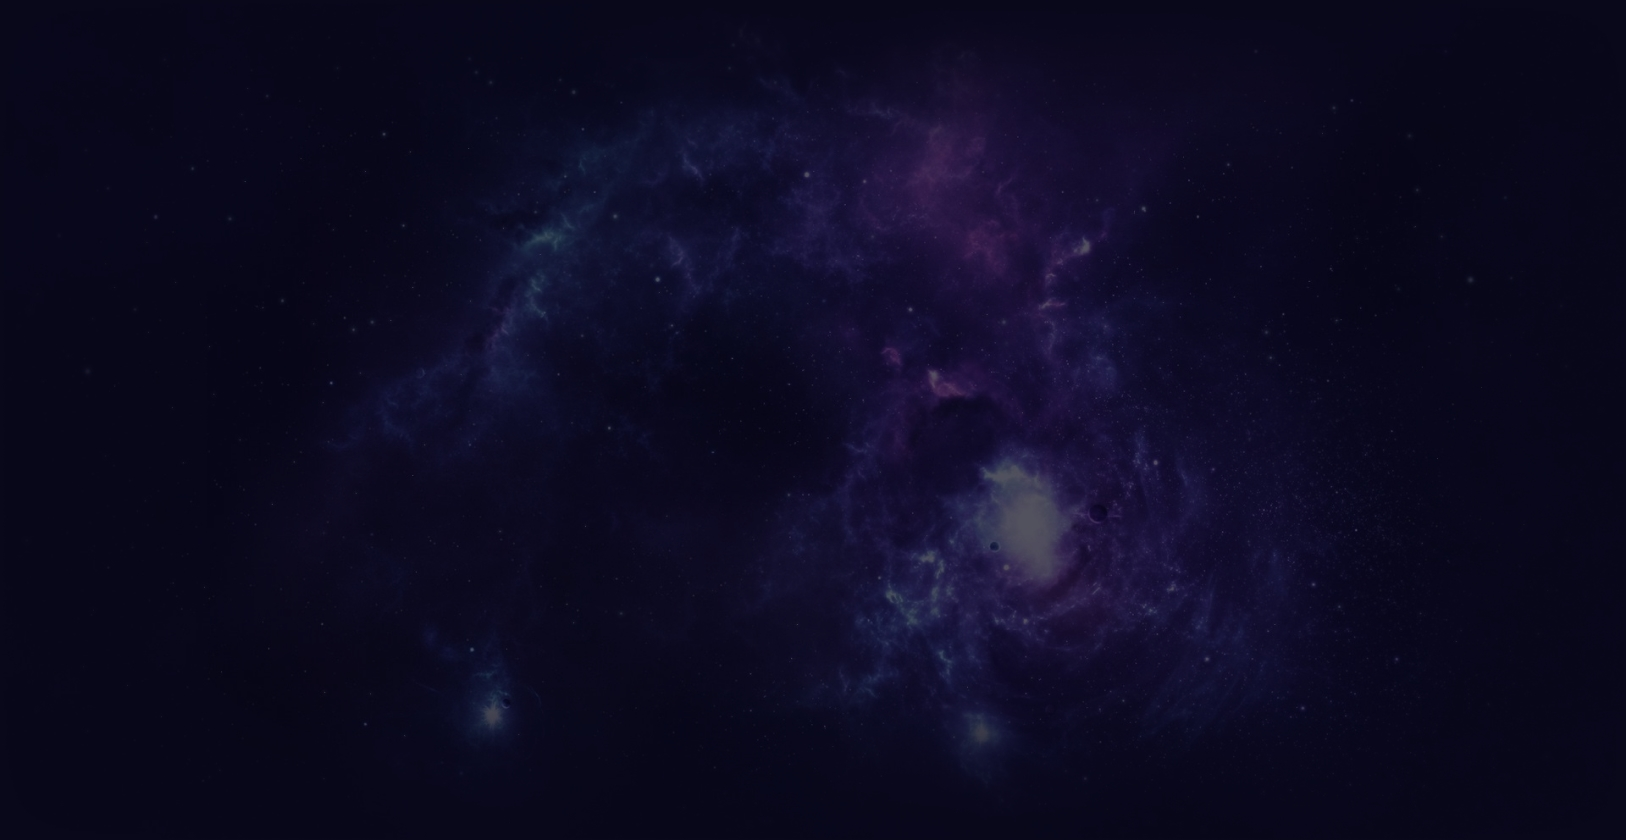
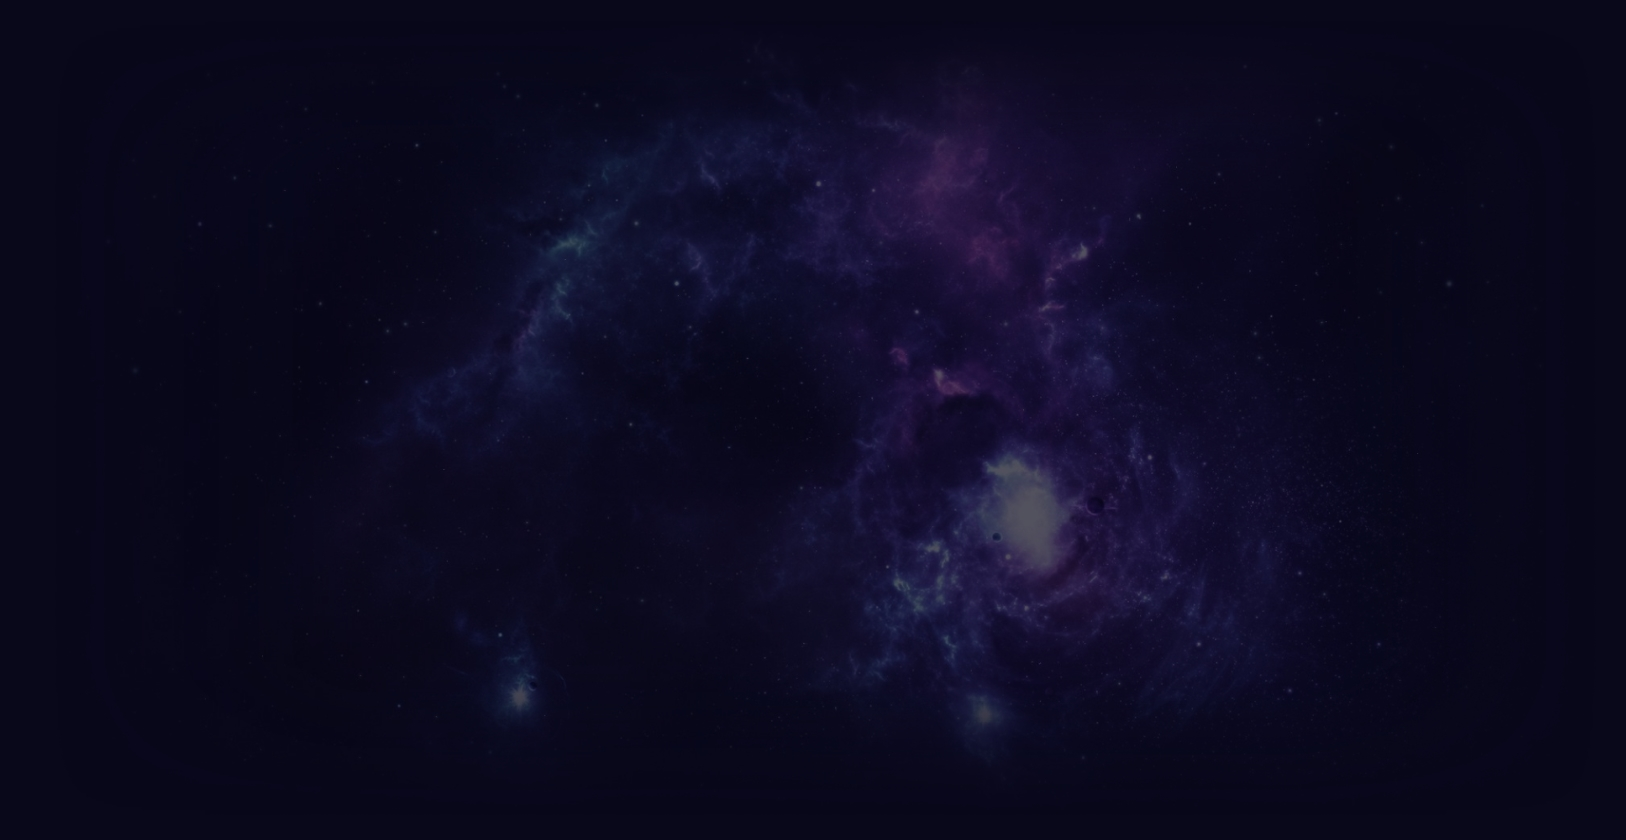
change fons

diff --git a/src/htmlParts/cards/card-third.html b/src/htmlParts/cards/card-third.html
@@ -1,6 +1,6 @@
 <div class="card card_third lazyload">
   <div class="card__front">
-    <img data-src="./images/card-third-bg.png" alt="" class="card__bg lazyload">
+    <img data-src="./images/card-third-bg.jpg" alt="" class="card__bg lazyload">
     <div class="img-container">
       <div class="img-container__circle img-container__circle_third">
         <svg width="30" height="37" viewBox="0 0 30 37" fill="none" xmlns="http://www.w3.org/2000/svg">
@@ -16,7 +16,7 @@
 
   </div>
   <div class="card__back">
-    <img data-src="./images/card-third-bg.png" alt="" class="card__bg lazyload">
+    <img data-src="./images/card-third-bg.jpg" alt="" class="card__bg lazyload">
     <p class="card__text">
       Функция Ambient Aware позволяет мгновенно переходить от абсолютного погружения в музыку к концентрации на окружающем мире. При включении этой функции сигналы автомобилей и другие громкие звуки на улице будут выделяться и быстро передаваться через динамик.
       Для активации достаточно просто провести по наушнику.

diff --git a/src/htmlParts/cards/card-fourth.html b/src/htmlParts/cards/card-fourth.html
@@ -1,6 +1,6 @@
 <div class="card card_fourth lazyload">
   <div class="card__front">
-    <img data-src="./images/card-fourth-bg.png" alt="" class="card__bg lazyload">
+    <img data-src="./images/card-fourth-bg.jpg" alt="" class="card__bg lazyload">
     <div class="img-container">
       <div class="img-container__circle img-container__circle_fourth">
         <svg width="16" height="32" viewBox="0 0 16 32" fill="none" xmlns="http://www.w3.org/2000/svg">
@@ -13,7 +13,7 @@
 
   </div>
   <div class="card__back">
-    <img data-src="./images/card-fourth-bg.png" alt="" class="card__bg lazyload">
+    <img data-src="./images/card-fourth-bg.jpg" alt="" class="card__bg lazyload">
     <p class="card__text">
       Легендарный звук наушников JBL можно держать под контролем и настроить лично под себя в специальном приложении My JBL Headphones. Динамические драйверы 5,6 мм раскачают любые композиции мощными басами и деталями.
     </p>

diff --git a/src/htmlParts/cards/card-main.html b/src/htmlParts/cards/card-main.html
@@ -1,6 +1,6 @@
 <div class="card card_main">
   <div class="card__front card__front_main">
-    <img data-src="./images/card-main-bg-1.png" alt="" class="card__bg lazyload">
+    <img data-src="./images/card-main-bg-1.jpg" alt="" class="card__bg lazyload">
     <div class="img-container">
 
       <div class="img-container__circle">
@@ -19,7 +19,7 @@
   </div>
 
   <div class="card__back">
-    <img data-src="./images/card-main-bg-1.png" alt="" class="card__bg lazyload">
+    <img data-src="./images/card-main-bg-1.jpg" alt="" class="card__bg lazyload">
     <p class="card__text card__text_main">
       С помощью технологии TalkThru в наушниках JBL LIVE 300TWS вы услышите все внешние звуки (разговоры, уличный шум и так далее) на полной громкости на фоне приглушенного основного аудиоисточника. Больше не придется вынимать наушник из уха, чтобы расслышать
       вопрос прохожего.

diff --git a/src/htmlParts/cards/card-fifth.html b/src/htmlParts/cards/card-fifth.html
@@ -1,6 +1,6 @@
 <div class="card card_fifth lazyload">
   <div class="card__front">
-    <img data-src="./images/card-fifth-bg.png" alt="" class="card__bg lazyload">
+    <img data-src="./images/card-fifth-bg.jpg" alt="" class="card__bg lazyload">
     <div class="img-container">
       <div class="img-container__circle img-container__circle_third">
         <svg width="26" height="34" viewBox="0 0 26 34" fill="none" xmlns="http://www.w3.org/2000/svg">
@@ -16,7 +16,7 @@
 
   </div>
   <div class="card__back">
-    <img data-src="./images/card-fifth-bg.png" alt="" class="card__bg lazyload">
+    <img data-src="./images/card-fifth-bg.jpg" alt="" class="card__bg lazyload">
     <p class="card__text">
       Наушники JBL LIVE 300TWS готовы к любым условиям — с ними не страшны занятия спортом в зале, велопрогулки под дождем, погружение до метра под воду.
     </p>

diff --git a/src/htmlParts/cards/card-second.html b/src/htmlParts/cards/card-second.html
@@ -1,6 +1,6 @@
 <div class="card card_second lazyload">
   <div class="card__front">
-    <img data-src="./images/card-second-bg.png" alt="" class="card__bg lazyload">
+    <img data-src="./images/card-second-bg.jpg" alt="" class="card__bg lazyload">
 
     <div class="img-container">
       <div class="img-container__circle img-container__circle_second">

diff --git a/src/htmlParts/saturn.html b/src/htmlParts/saturn.html
@@ -1,6 +1,7 @@
 <section class="saturn planet-block">
   <div class="saturn__background">
     <img src="./images/planets-smooth-bg2.png" alt="" class="saturn__bg">
+    <!-- <img src="./images/lead-bg3.jpg" alt="" class="saturn__bg"> -->
     <div class="saturn__layer_stars stars"></div>
   </div>
 

diff --git a/src/htmlParts/ganymede.html b/src/htmlParts/ganymede.html
@@ -9,7 +9,7 @@
 
 
 
-    <img src="./images/planets-smooth-bg2.png" alt="" class="ganymede__bg">
+    <img src="./images/planets-smooth-bg3.jpg" alt="" class="ganymede__bg">
     <div class="ganymede__layer_stars"></div>
 
 
